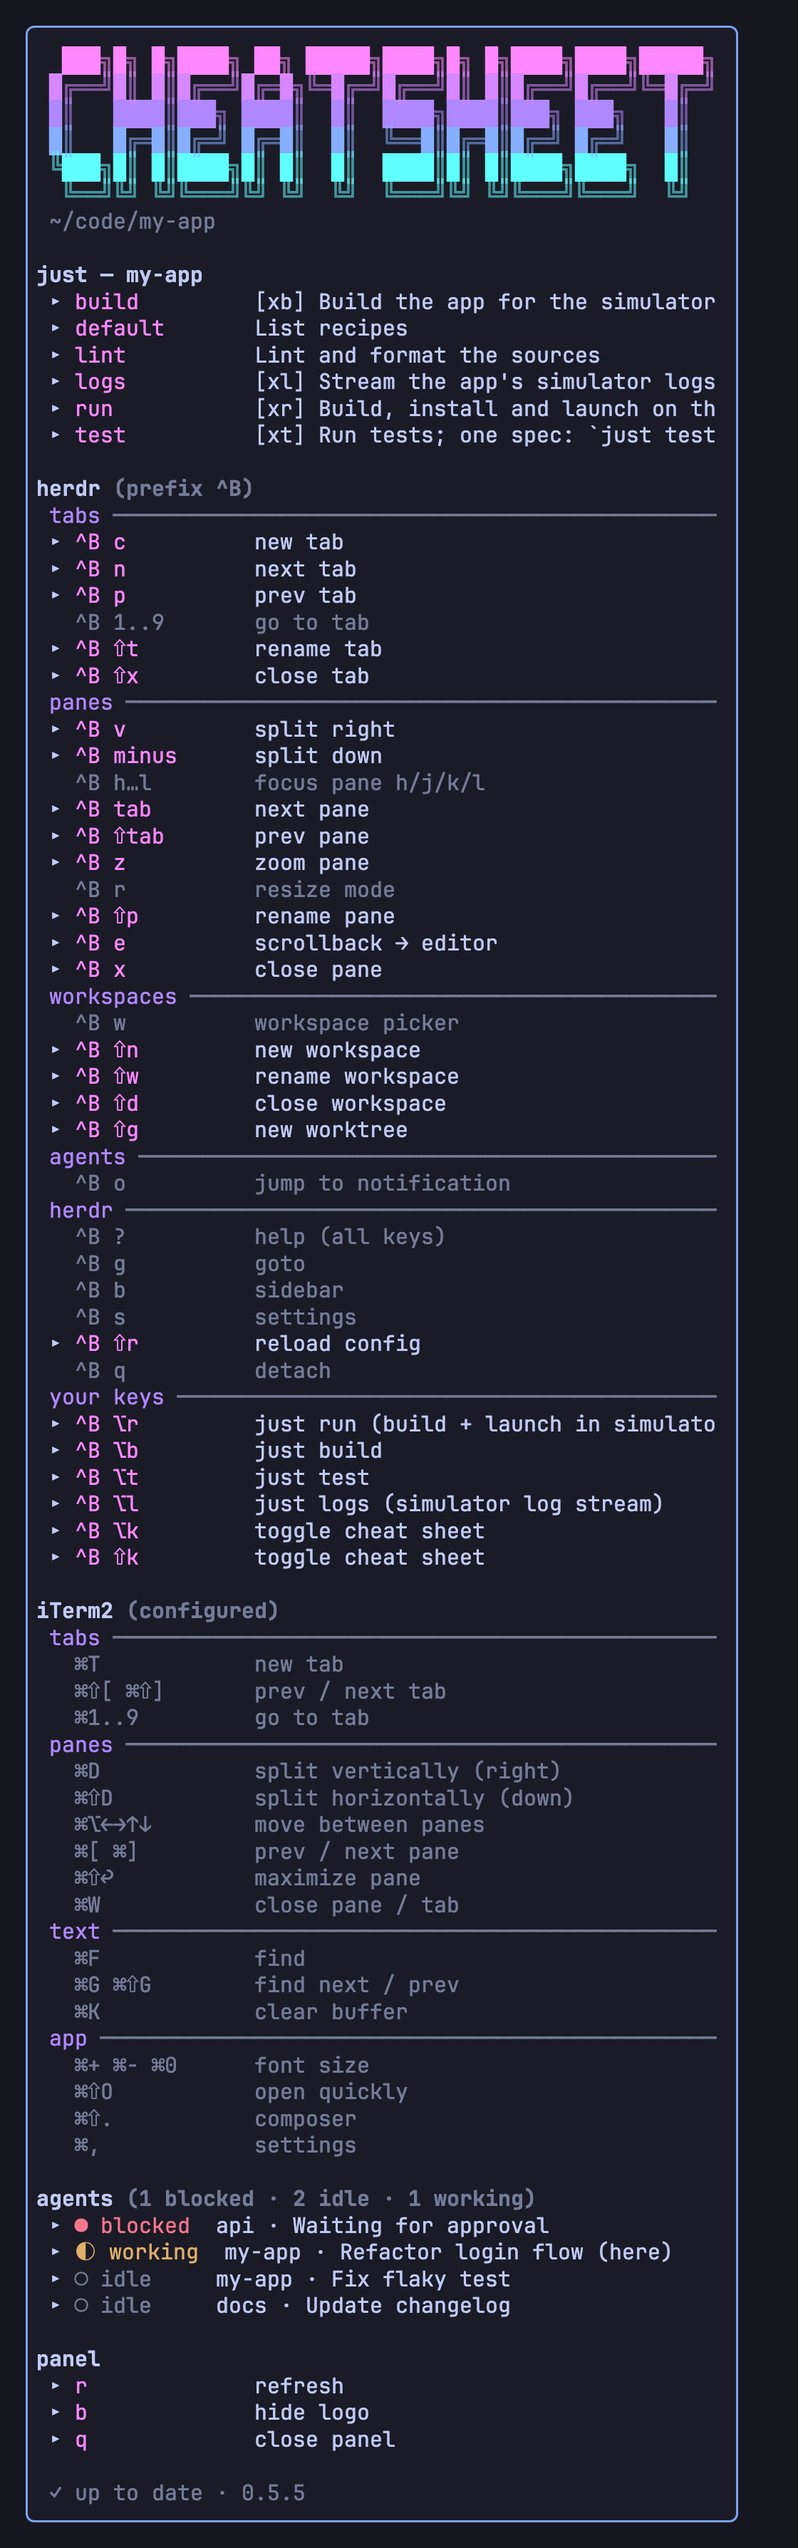
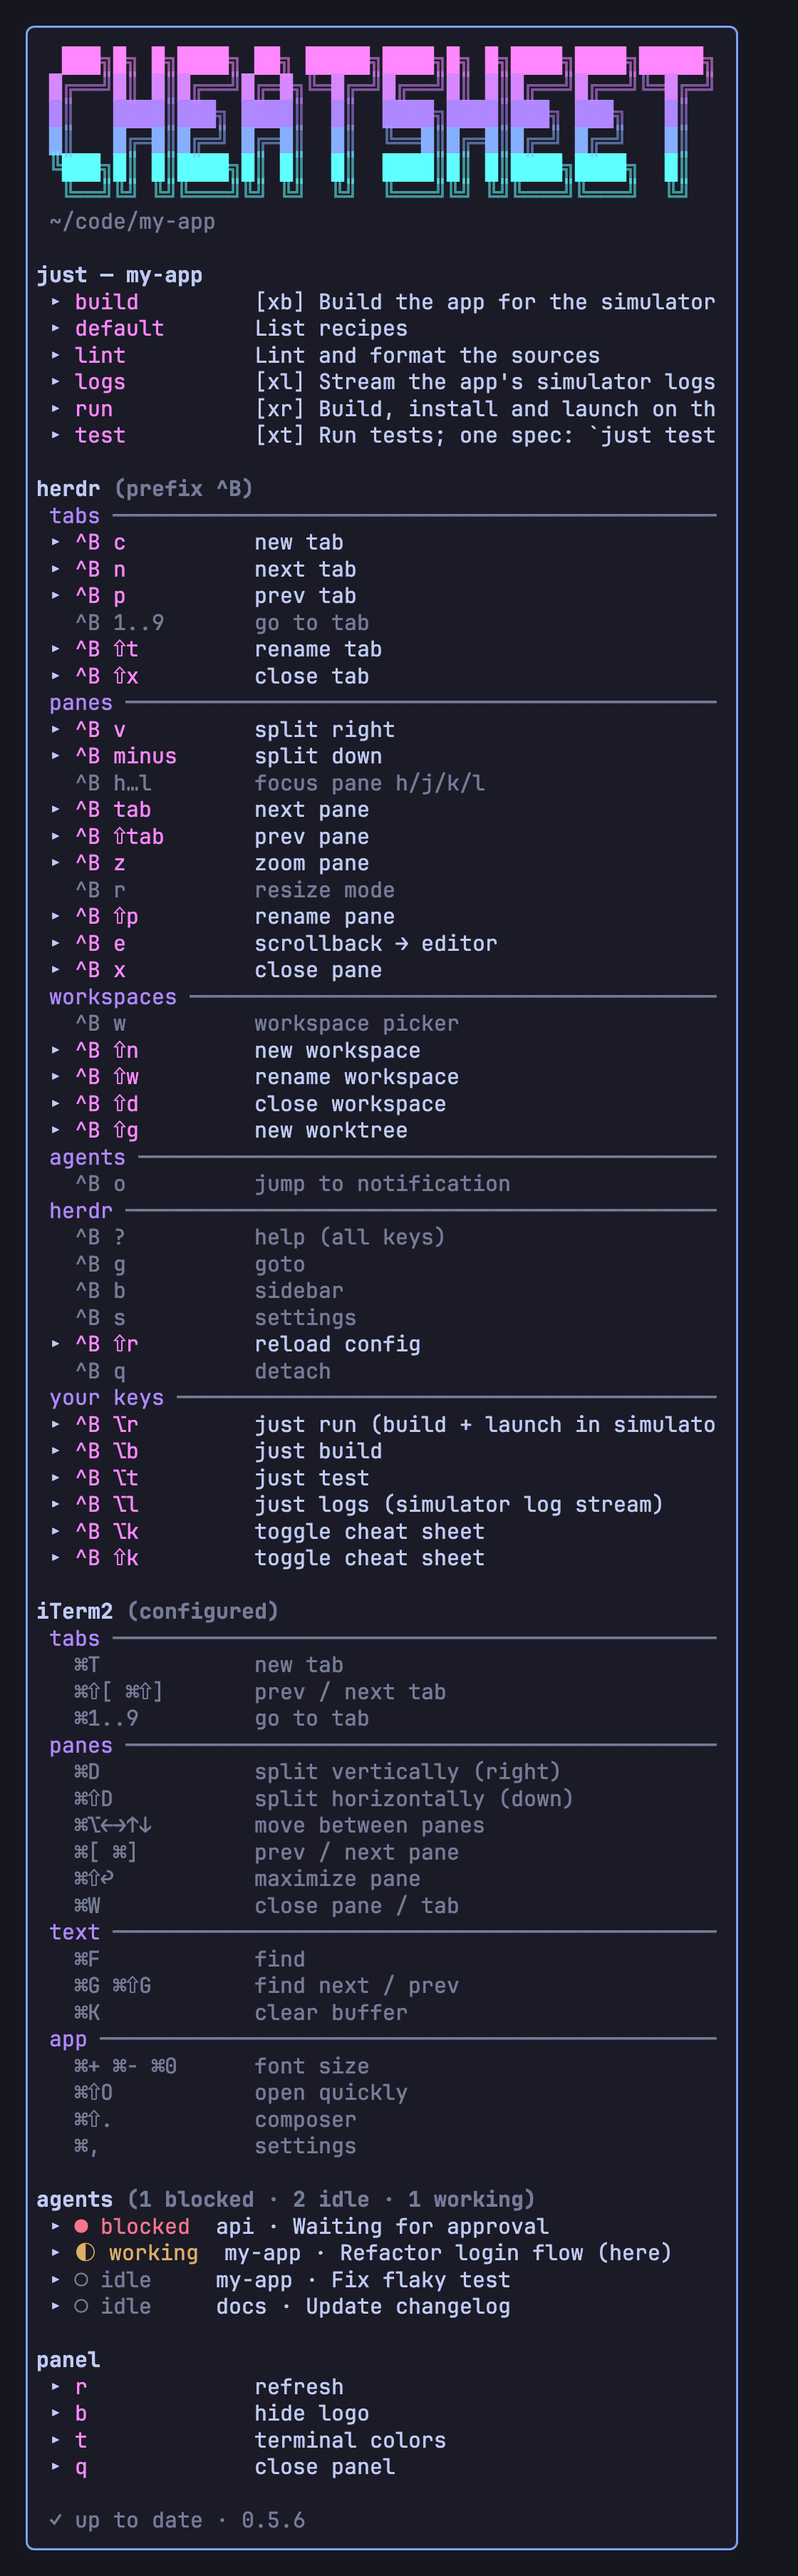
Adapt colors to the terminal theme, with a terminal-colors toggle
The panel asks the terminal for its background and color scheme at
start and on refresh (herdr answers for the attached terminal) and
turns on color-scheme reports, so it switches live between the pastel
palette and a deeper one for light backgrounds. A "t" row (and key) in
the panel section switches all panels to the theme's own ANSI colors
and back. New settings: CHEATSHEET_COLORS, CHEATSHEET_APPEARANCE.

diff --git a/README.md b/README.md
@@ -63,6 +63,7 @@ agents (1 blocked · 2 idle · 1 working)
 panel
  ▸ r             refresh
  ▸ b             hide logo
+ ▸ t             terminal colors
  ▸ q             close panel
 ```
 
@@ -104,6 +105,8 @@ On first run the plugin copies `config.zsh` into its config directory. Print the
 | `CHEATSHEET_RATIO` | — | A fixed share kept by the main pane instead (`0.80` = 20% wide panel) |
 | `CHEATSHEET_AUTO_OPEN` | `all` | `all`: every new tab · `first`: tab 1 of each workspace · `off`: toggle key only |
 | `CHEATSHEET_BANNER` | `on` | `off` hides the logo banner. The panel's `b` row toggles it for all panels and overrides this setting |
+| `CHEATSHEET_COLORS` | `retro` | `retro`: the pastel palette, deeper on light backgrounds · `terminal`: the theme's own magenta, blue and cyan. The panel's `t` row toggles it for all panels and overrides this setting |
+| `CHEATSHEET_APPEARANCE` | `auto` | `auto` asks the terminal whether its background is light or dark; `dark` or `light` forces one |
 | `CHEATSHEET_AGENTS` | `all` | `all` agents, `attention` (only blocked and done ones) or `off` |
 | `CHEATSHEET_AGENTS_MAX` | `8` | Maximum agent rows, the rest is summarized as `+N more` |
 | `CHEATSHEET_UPDATE_CHECK` | `on` | `off` turns off the update notice and its request to GitHub |
@@ -141,6 +144,7 @@ Every list contains defaults confirmed in the terminal's official documentation 
 - `panel.zsh` opens and closes it on herdr startup, `workspace.created`, `tab.created` and the toggle action. herdr opens plugin panes at half width, so it then resizes the split to `CHEATSHEET_WIDTH` columns (or `CHEATSHEET_RATIO`).
 - When a panel starts, it compares the installed commit (`herdr plugin list --json`) with the repository's latest one using a single `git ls-remote` to github.com. If they differ, it also downloads the new `herdr-plugin.toml` to show the version number. Panels that start together share one result, which is stored with any error in the plugin's state directory (`~/.local/state/herdr/plugins/christiandeckert.cheatsheet/update`). Local or linked installs aren't checked.
 - herdr restores plugin panes after a server restart as plain shells. The startup hook closes such a pane and opens a fresh panel in its place, instead of opening a second one.
+- Colors follow the terminal's theme. At start and on `r` the panel asks for the background color and the light/dark color scheme, which herdr answers for the terminal you're attached from. It also turns on color-scheme reports, so it switches between its dark and light palette as soon as the terminal does. Without an answer it assumes a dark background.
 - The pane frame shows the name `cheatsheet` only while the logo is hidden, since the logo already names the panel. Panels are recognized by their title, by that name, or by their working directory: herdr runs plugin panes in the plugin's install directory and restores them there.
 - Before 0.5.0 the panel was started by typing a command into a shell pane, which added a `CHEATSHEET_PLUGIN_ID=… zsh …/sheet.zsh` line to your shell history every time. Panels from those versions replace themselves with a plugin pane after updating. To remove the old history lines (zsh, macOS `sed`): `sed -i '' '/CHEATSHEET_PLUGIN_ID=/d' ~/.zsh_history`.
 - `sheet.zsh` draws the panel and redraws only when the focused project, the justfile or alias file, your herdr config, the terminal list, an agent's status or the pane size changes. It enables mouse reporting so herdr forwards clicks and the scroll wheel to it, and keeps terminal echo off so mouse input never shows up as text. When the content is taller than the pane, the wheel scrolls it.
